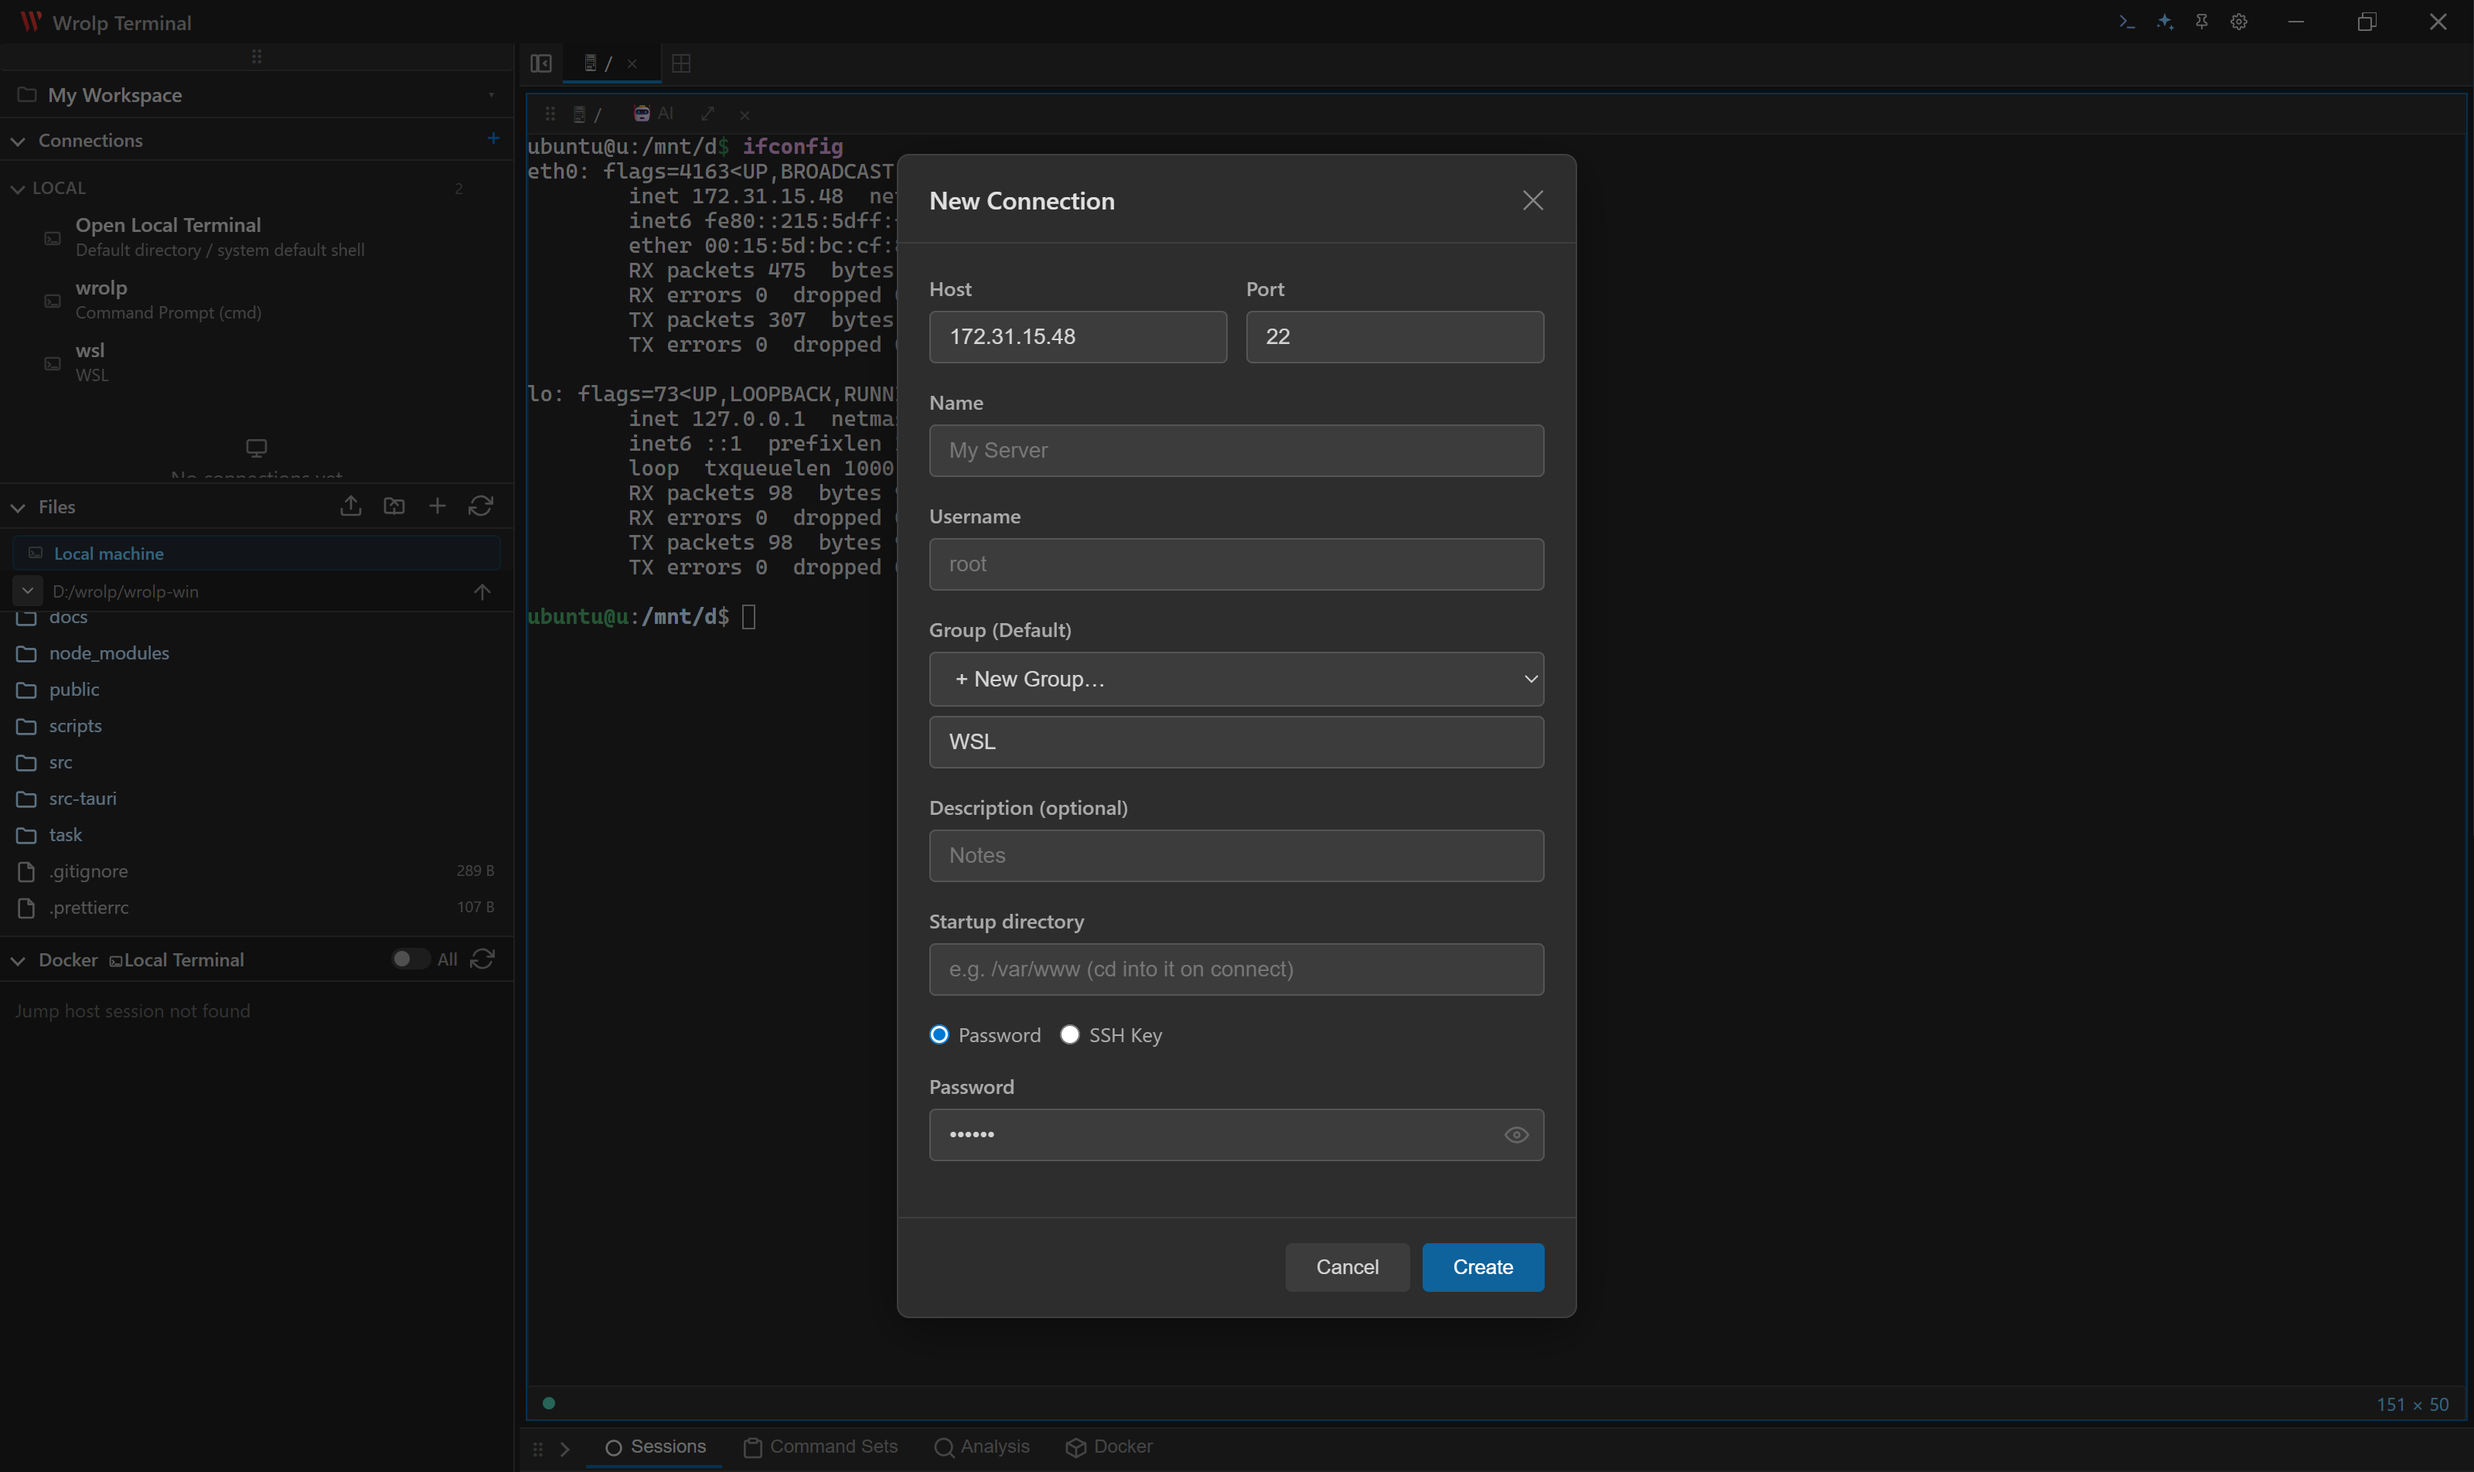
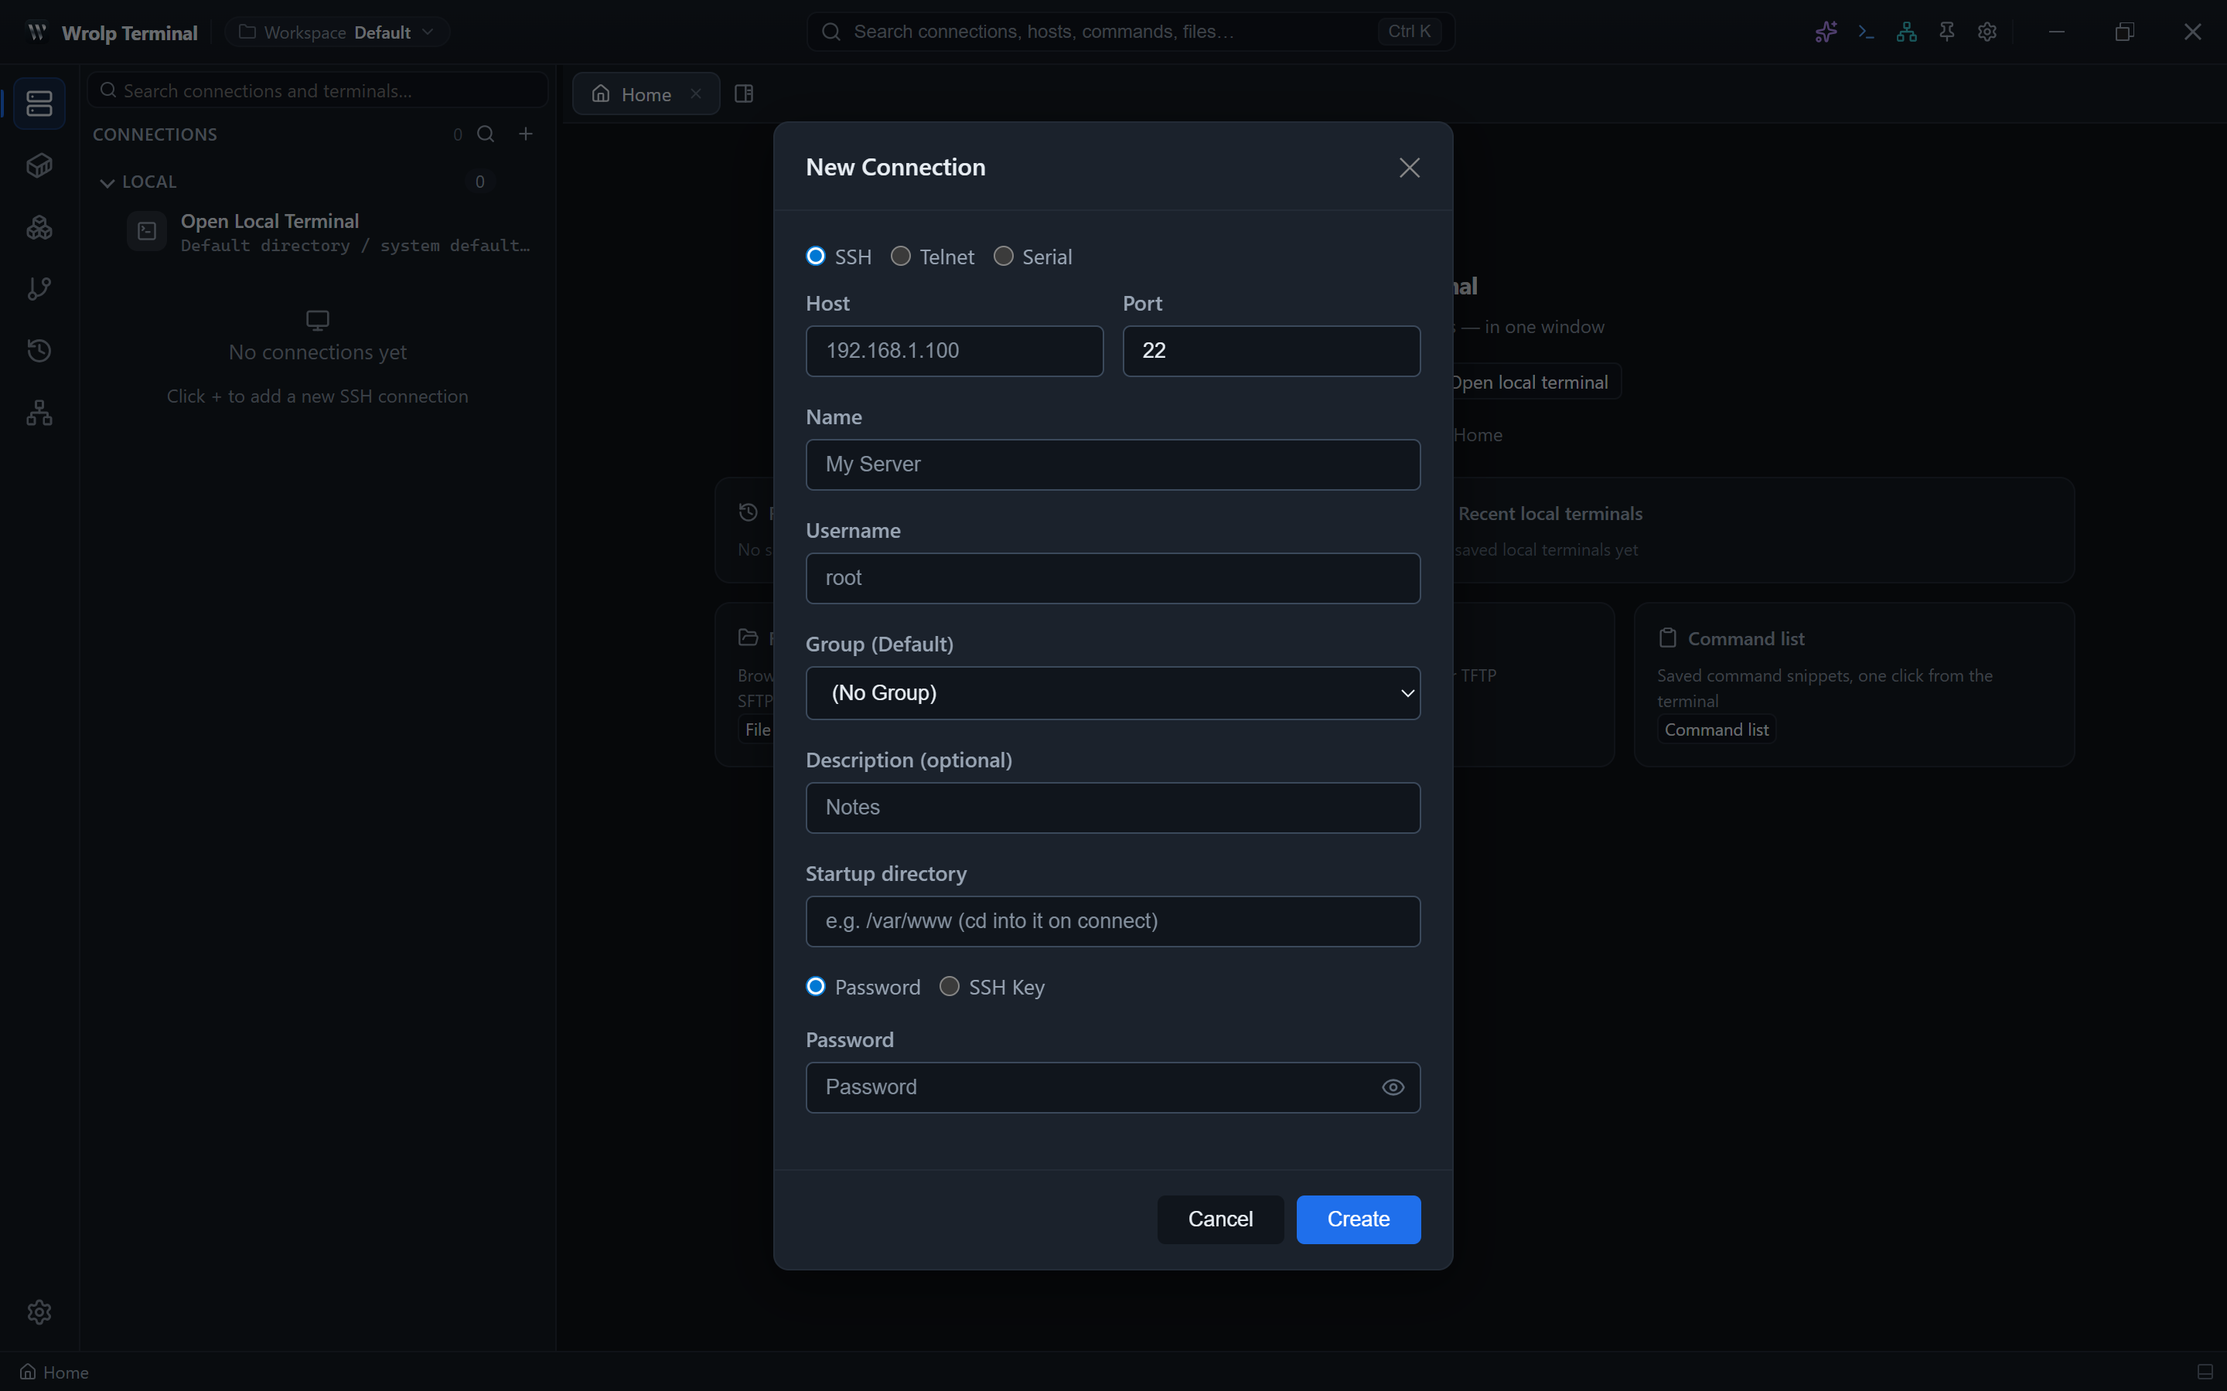
docs(readme): refresh screenshots and remove the AI assistant shot
Add home, SSH session and SFTP browser screenshots, replace the new-connection image with a current build, and drop the outdated AI assistant screenshot from both READMEs.

diff --git a/README.md b/README.md
@@ -42,16 +42,28 @@
 
 ## 📸 Screenshots
 
+### Home
+
+<p align="center">
+  <img src="docs/images/home.png" alt="Wrolp Terminal - Home tab with connections, recent hosts and tools" width="720" />
+</p>
+
+### SSH session
+
+<p align="center">
+  <img src="docs/images/ssh-terminal.png" alt="Wrolp Terminal - SSH session on Ubuntu 24.04" width="720" />
+</p>
+
+### SFTP file browser
+
+<p align="center">
+  <img src="docs/images/file-transfer.png" alt="Wrolp Terminal - SFTP file panel beside the terminal" width="720" />
+</p>
+
 ### New connection dialog
 
 <p align="center">
   <img src="docs/images/new-connection.png" alt="Wrolp Terminal - New connection dialog" width="720" />
-</p>
-
-### AI assistant
-
-<p align="center">
-  <img src="docs/images/use-ai.png" alt="Wrolp Terminal - AI assistant analyzing a connected server" width="720" />
 </p>
 
 ## Features

diff --git a/README.zh.md b/README.zh.md
@@ -42,16 +42,28 @@
 
 ## 📸 截图
 
+### 首页
+
+<p align="center">
+  <img src="docs/images/home.png" alt="Wrolp Terminal - 首页：连接列表、最近主机与工具入口" width="720" />
+</p>
+
+### SSH 会话
+
+<p align="center">
+  <img src="docs/images/ssh-terminal.png" alt="Wrolp Terminal - Ubuntu 24.04 上的 SSH 会话" width="720" />
+</p>
+
+### SFTP 文件浏览
+
+<p align="center">
+  <img src="docs/images/file-transfer.png" alt="Wrolp Terminal - SFTP 文件面板与终端并排" width="720" />
+</p>
+
 ### 新建连接
 
 <p align="center">
   <img src="docs/images/new-connection.png" alt="Wrolp Terminal - 新建连接对话框" width="720" />
-</p>
-
-### AI 助手
-
-<p align="center">
-  <img src="docs/images/use-ai.png" alt="Wrolp Terminal - AI 助手分析已连接服务器" width="720" />
 </p>
 
 ## 功能特性
